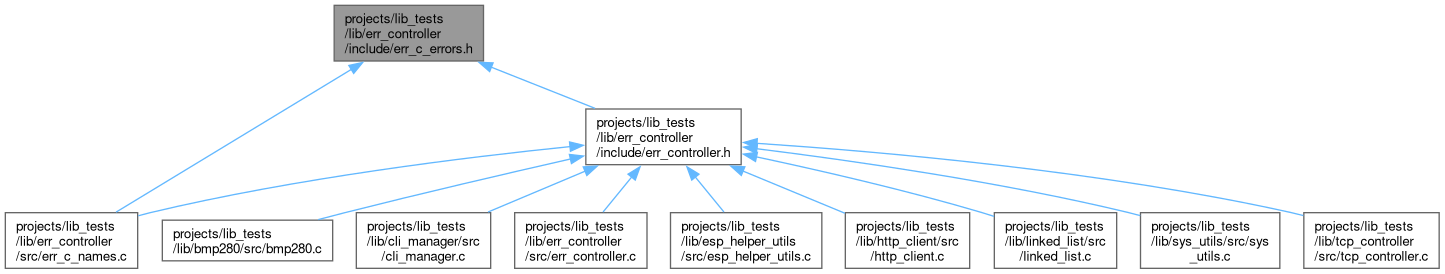
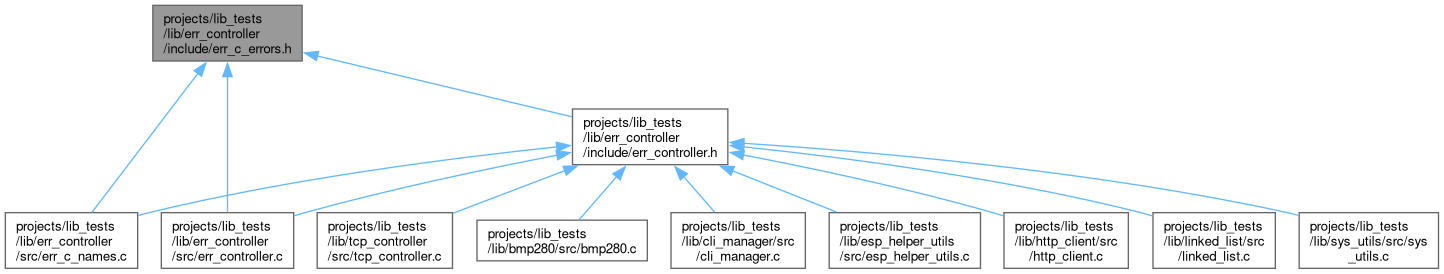
deploy: 7ed813e12e845c21bf410ca0011d356df5467bed

diff --git a/docs/err__c__errors_8h.html b/docs/err__c__errors_8h.html
@@ -104,28 +104,29 @@ This graph shows which files directly or indirectly include this file:</div>
 <div class="dyncontent">
 <div class="center"><img src="err__c__errors_8h__dep__incl.png" border="0" usemap="#aprojects_2lib__tests_2lib_2err__controller_2include_2err__c__errors_8hdep" alt=""/></div>
 <map name="aprojects_2lib__tests_2lib_2err__controller_2include_2err__c__errors_8hdep" id="aprojects_2lib__tests_2lib_2err__controller_2include_2err__c__errors_8hdep">
-<area shape="rect" title="Error helper library errors list." alt="" coords="334,5,484,61"/>
-<area shape="rect" href="err__controller_8h.html" title="Error helper library header." alt="" coords="586,109,741,165"/>
-<area shape="poly" title=" " alt="" coords="492,65,596,106,594,111,490,70"/>
+<area shape="rect" title="Error helper library errors list." alt="" coords="153,5,302,61"/>
+<area shape="rect" href="err__controller_8h.html" title="Error helper library header." alt="" coords="573,109,728,165"/>
+<area shape="poly" title=" " alt="" coords="318,53,572,114,571,119,317,59"/>
 <area shape="rect" href="err__c__names_8c.html" title="Auto generated file with ESP Helper libraries error names." alt="" coords="5,213,138,268"/>
-<area shape="poly" title=" " alt="" coords="353,71,117,214,115,210,350,67"/>
-<area shape="rect" href="bmp280_8c.html" title="BMP280 library source file." alt="" coords="162,220,333,261"/>
-<area shape="poly" title=" " alt="" coords="571,162,345,215,319,222,317,217,344,210,570,156"/>
-<area shape="rect" href="cli__manager_8c.html" title="Cli Manager library source file." alt="" coords="356,213,491,268"/>
-<area shape="poly" title=" " alt="" coords="586,174,489,214,487,210,584,169"/>
-<area shape="poly" title=" " alt="" coords="571,149,376,173,263,192,151,215,139,218,138,213,150,210,262,187,375,168,570,144"/>
-<area shape="rect" href="err__controller_8c.html" title="Error helper library source file." alt="" coords="515,213,647,268"/>
-<area shape="poly" title=" " alt="" coords="634,179,605,214,601,210,630,175"/>
-<area shape="rect" href="esp__helper__utils_8c.html" title="ESP Helper utils library source file." alt="" coords="671,213,822,268"/>
-<area shape="poly" title=" " alt="" coords="697,175,726,210,722,214,693,179"/>
-<area shape="rect" href="http__client_8c.html" title="Http client source file." alt="" coords="845,213,970,268"/>
-<area shape="poly" title=" " alt="" coords="744,169,846,211,844,216,742,173"/>
-<area shape="rect" href="linked__list_8c.html" title="Linked list library source file." alt="" coords="994,213,1117,268"/>
-<area shape="poly" title=" " alt="" coords="757,154,866,179,983,210,995,214,993,219,981,215,864,184,756,159"/>
-<area shape="rect" href="sys__utils_8c.html" title="Source file of sys_utils library." alt="" coords="1141,213,1280,268"/>
-<area shape="poly" title=" " alt="" coords="757,146,931,171,1031,189,1129,210,1141,213,1140,218,1128,215,1030,194,930,176,756,151"/>
-<area shape="rect" href="tcp__controller_8c.html" title="TCP Controller source file." alt="" coords="1304,213,1439,268"/>
-<area shape="poly" title=" " alt="" coords="757,141,1001,163,1147,183,1292,210,1304,213,1303,218,1291,215,1146,188,1000,168,757,146"/>
+<area shape="poly" title=" " alt="" coords="200,75,94,214,90,211,196,71"/>
+<area shape="rect" href="err__controller_8c.html" title="Error helper library source file." alt="" coords="161,213,294,268"/>
+<area shape="poly" title=" " alt="" coords="230,76,230,212,225,212,225,76"/>
+<area shape="rect" href="bmp280_8c.html" title="BMP280 library source file." alt="" coords="477,220,647,261"/>
+<area shape="poly" title=" " alt="" coords="619,178,581,222,577,218,615,175"/>
+<area shape="rect" href="cli__manager_8c.html" title="Cli Manager library source file." alt="" coords="671,213,805,268"/>
+<area shape="poly" title=" " alt="" coords="686,175,717,210,713,214,682,178"/>
+<area shape="poly" title=" " alt="" coords="557,150,368,174,258,192,149,215,139,218,137,213,148,210,257,187,367,168,557,144"/>
+<area shape="poly" title=" " alt="" coords="558,158,437,183,306,215,295,218,293,213,304,210,436,178,557,153"/>
+<area shape="rect" href="esp__helper__utils_8c.html" title="ESP Helper utils library source file." alt="" coords="829,213,981,268"/>
+<area shape="poly" title=" " alt="" coords="733,168,837,210,835,215,731,173"/>
+<area shape="rect" href="http__client_8c.html" title="Http client source file." alt="" coords="1004,213,1128,268"/>
+<area shape="poly" title=" " alt="" coords="744,152,863,177,994,210,1004,213,1003,218,992,215,862,182,743,158"/>
+<area shape="rect" href="linked__list_8c.html" title="Linked list library source file." alt="" coords="1153,213,1275,268"/>
+<area shape="poly" title=" " alt="" coords="744,144,929,168,1036,187,1141,210,1153,213,1152,218,1140,215,1035,192,928,173,743,149"/>
+<area shape="rect" href="sys__utils_8c.html" title="Source file of sys_utils library." alt="" coords="1299,213,1439,268"/>
+<area shape="poly" title=" " alt="" coords="744,141,991,163,1140,183,1288,210,1299,213,1298,218,1287,215,1139,188,991,168,743,146"/>
+<area shape="rect" href="tcp__controller_8c.html" title="TCP Controller source file." alt="" coords="317,213,453,268"/>
+<area shape="poly" title=" " alt="" coords="566,173,454,216,452,211,564,168"/>
 </map>
 </div>
 </div>

diff --git a/docs/err__controller_8c.html b/docs/err__controller_8c.html
@@ -100,7 +100,7 @@ $(document).ready(function(){initNavTree('err__controller_8c.html',''); initResi
 <p>Error helper library source file.  
 <a href="#details">More...</a></p>
 <div class="textblock"><code>#include &quot;<a class="el" href="err__controller_8h_source.html">err_controller.h</a>&quot;</code><br />
-<code>#include &quot;errors_list.h&quot;</code><br />
+<code>#include &quot;<a class="el" href="err__c__errors_8h_source.html">err_c_errors.h</a>&quot;</code><br />
 <code>#include &lt;stdio.h&gt;</code><br />
 <code>#include &lt;stdlib.h&gt;</code><br />
 <code>#include &lt;string.h&gt;</code><br />
@@ -110,25 +110,24 @@ Include dependency graph for err_controller.c:</div>
 <div class="dyncontent">
 <div class="center"><img src="err__controller_8c__incl.png" border="0" usemap="#aprojects_2lib__tests_2lib_2err__controller_2src_2err__controller_8c" alt=""/></div>
 <map name="aprojects_2lib__tests_2lib_2err__controller_2src_2err__controller_8c" id="aprojects_2lib__tests_2lib_2err__controller_2src_2err__controller_8c">
-<area shape="rect" title="Error helper library source file." alt="" coords="349,5,482,61"/>
-<area shape="rect" href="err__controller_8h.html" title="Error helper library header." alt="" coords="101,109,207,135"/>
-<area shape="poly" title=" " alt="" coords="350,59,206,106,204,101,348,54"/>
-<area shape="rect" title=" " alt="" coords="231,109,320,135"/>
-<area shape="poly" title=" " alt="" coords="373,64,309,103,306,98,370,59"/>
-<area shape="rect" title=" " alt="" coords="343,109,403,135"/>
-<area shape="poly" title=" " alt="" coords="405,62,388,96,383,94,400,60"/>
-<area shape="rect" title=" " alt="" coords="427,109,489,135"/>
-<area shape="poly" title=" " alt="" coords="431,60,448,94,443,96,426,62"/>
-<area shape="rect" title=" " alt="" coords="513,109,577,135"/>
-<area shape="poly" title=" " alt="" coords="458,59,516,98,513,103,455,64"/>
-<area shape="rect" title=" " alt="" coords="600,109,660,135"/>
-<area shape="poly" title=" " alt="" coords="483,59,587,100,585,105,481,64"/>
-<area shape="rect" title=" " alt="" coords="5,183,82,208"/>
-<area shape="poly" title=" " alt="" coords="137,137,76,176,73,172,134,133"/>
-<area shape="rect" href="CException_8h_source.html" title=" " alt="" coords="106,183,202,208"/>
-<area shape="poly" title=" " alt="" coords="157,135,157,167,152,167,152,135"/>
+<area shape="rect" title="Error helper library source file." alt="" coords="312,5,444,61"/>
+<area shape="rect" href="err__controller_8h.html" title="Error helper library header." alt="" coords="117,109,223,135"/>
+<area shape="poly" title=" " alt="" coords="314,64,214,105,212,100,312,59"/>
 <area shape="rect" href="err__c__errors_8h.html" title="Error helper library errors list." alt="" coords="227,183,327,208"/>
-<area shape="poly" title=" " alt="" coords="176,133,245,172,242,177,174,138"/>
+<area shape="poly" title=" " alt="" coords="340,63,316,85,296,110,285,139,281,168,275,167,280,138,292,108,312,81,336,59"/>
+<area shape="rect" title=" " alt="" coords="306,109,365,135"/>
+<area shape="poly" title=" " alt="" coords="367,62,351,96,346,94,363,60"/>
+<area shape="rect" title=" " alt="" coords="390,109,452,135"/>
+<area shape="poly" title=" " alt="" coords="394,60,411,94,406,96,389,62"/>
+<area shape="rect" title=" " alt="" coords="476,109,539,135"/>
+<area shape="poly" title=" " alt="" coords="420,59,479,98,476,103,417,64"/>
+<area shape="rect" title=" " alt="" coords="563,109,623,135"/>
+<area shape="poly" title=" " alt="" coords="446,59,549,100,547,105,444,64"/>
+<area shape="rect" title=" " alt="" coords="5,183,82,208"/>
+<area shape="poly" title=" " alt="" coords="150,138,79,177,77,172,147,133"/>
+<area shape="rect" href="CException_8h_source.html" title=" " alt="" coords="106,183,202,208"/>
+<area shape="poly" title=" " alt="" coords="170,135,163,168,158,167,165,134"/>
+<area shape="poly" title=" " alt="" coords="190,133,247,171,245,176,187,137"/>
 <area shape="rect" title=" " alt="" coords="119,256,189,282"/>
 <area shape="poly" title=" " alt="" coords="157,209,157,241,152,241,152,209"/>
 </map>

diff --git a/docs/dir_000058_000018.html b/docs/dir_000058_000018.html
@@ -91,7 +91,7 @@ $(document).ready(function(){initNavTree('dir_95434363a118448cce410e74c178c4d8.h
 </div>
 
 <div class="contents">
-<h3>src &rarr; include Relation</h3><table class="dirtab"><tr class="dirtab"><th class="dirtab">File in projects/lib_tests/lib/err_controller/src</th><th class="dirtab">Includes file in projects/lib_tests/lib/err_controller/include</th></tr><tr class="dirtab"><td class="dirtab"><a class="el" href="err__c__names_8c.html">err_c_names.c</a></td><td class="dirtab"><a class="el" href="err__c__errors_8h.html">err_c_errors.h</a></td></tr><tr class="dirtab"><td class="dirtab"><a class="el" href="err__c__names_8c.html">err_c_names.c</a></td><td class="dirtab"><a class="el" href="err__controller_8h.html">err_controller.h</a></td></tr><tr class="dirtab"><td class="dirtab"><a class="el" href="err__controller_8c.html">err_controller.c</a></td><td class="dirtab"><a class="el" href="err__controller_8h.html">err_controller.h</a></td></tr></table></div><!-- contents -->
+<h3>src &rarr; include Relation</h3><table class="dirtab"><tr class="dirtab"><th class="dirtab">File in projects/lib_tests/lib/err_controller/src</th><th class="dirtab">Includes file in projects/lib_tests/lib/err_controller/include</th></tr><tr class="dirtab"><td class="dirtab"><a class="el" href="err__c__names_8c.html">err_c_names.c</a></td><td class="dirtab"><a class="el" href="err__c__errors_8h.html">err_c_errors.h</a></td></tr><tr class="dirtab"><td class="dirtab"><a class="el" href="err__c__names_8c.html">err_c_names.c</a></td><td class="dirtab"><a class="el" href="err__controller_8h.html">err_controller.h</a></td></tr><tr class="dirtab"><td class="dirtab"><a class="el" href="err__controller_8c.html">err_controller.c</a></td><td class="dirtab"><a class="el" href="err__c__errors_8h.html">err_c_errors.h</a></td></tr><tr class="dirtab"><td class="dirtab"><a class="el" href="err__controller_8c.html">err_controller.c</a></td><td class="dirtab"><a class="el" href="err__controller_8h.html">err_controller.h</a></td></tr></table></div><!-- contents -->
 </div><!-- doc-content -->
 <!-- start footer part -->
 <div id="nav-path" class="navpath"><!-- id is needed for treeview function! -->

diff --git a/docs/dir_ad2f0f031418f15bffc8673a7a3ed814.html b/docs/dir_ad2f0f031418f15bffc8673a7a3ed814.html
@@ -102,7 +102,7 @@ Directory dependency graph for err_controller:</div>
 <area shape="rect" href="dir_5b9b40159bc618afcd3052cb3fec0000.html" title="include" alt="" coords="37,137,99,162"/>
 <area shape="rect" href="dir_95434363a118448cce410e74c178c4d8.html" title="src" alt="" coords="38,63,77,89"/>
 <area shape="poly" href="dir_000058_000018.html" alt="" coords="62,88,67,121,61,122,56,89"/>
-<area shape="rect" href="dir_000058_000018.html" title="3" alt="" coords="68,110,75,125"/>
+<area shape="rect" href="dir_000058_000018.html" title="4" alt="" coords="68,110,75,125"/>
 <area shape="rect" href="dir_ad2f0f031418f15bffc8673a7a3ed814.html" alt="" coords="27,52,208,173"/>
 <area shape="rect" href="dir_855d5b67a0b6a1e95f97d8678c396cca.html" title="lib" alt="" coords="16,16,219,184"/>
 </map>

diff --git a/docs/dir_95434363a118448cce410e74c178c4d8.html b/docs/dir_95434363a118448cce410e74c178c4d8.html
@@ -102,7 +102,7 @@ Directory dependency graph for src:</div>
 <area shape="rect" href="dir_5b9b40159bc618afcd3052cb3fec0000.html" title="include" alt="" coords="33,126,95,152"/>
 <area shape="rect" href="dir_95434363a118448cce410e74c178c4d8.html" title="src" alt="" coords="44,52,84,78"/>
 <area shape="poly" href="dir_000058_000018.html" alt="" coords="67,78,67,110,61,110,61,78"/>
-<area shape="rect" href="dir_000058_000018.html" title="3" alt="" coords="69,100,76,115"/>
+<area shape="rect" href="dir_000058_000018.html" title="4" alt="" coords="69,100,76,115"/>
 <area shape="rect" href="dir_ad2f0f031418f15bffc8673a7a3ed814.html" title="err_controller" alt="" coords="16,16,112,162"/>
 </map>
 </div>

diff --git a/projects/lib_tests/lib/err_controller/src/err_controller.c b/projects/lib_tests/lib/err_controller/src/err_controller.c
@@ -10,7 +10,7 @@
  */
 
 #include "err_controller.h"
-#include "errors_list.h"
+#include "err_c_errors.h"
 #include <stdio.h>
 #include <stdlib.h>
 #include <string.h>
